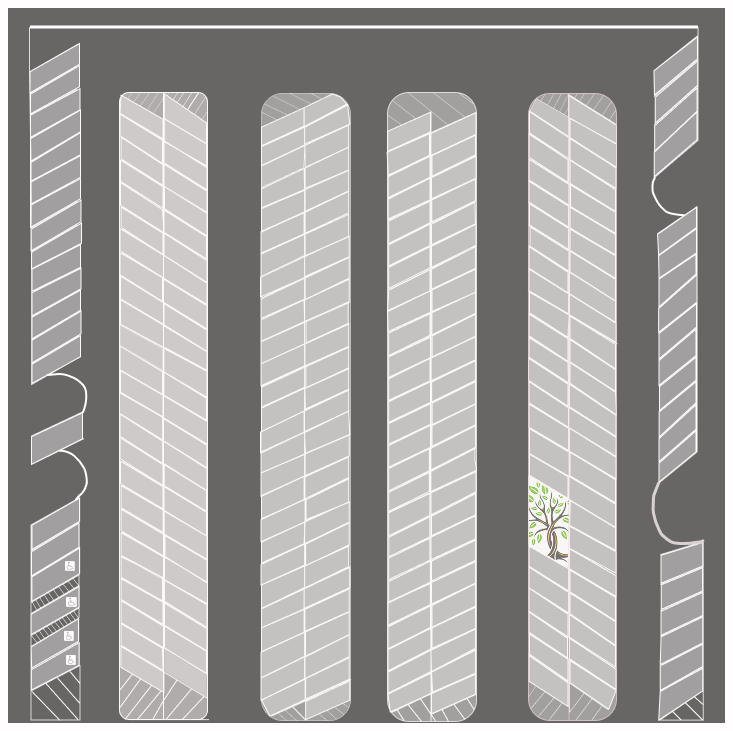
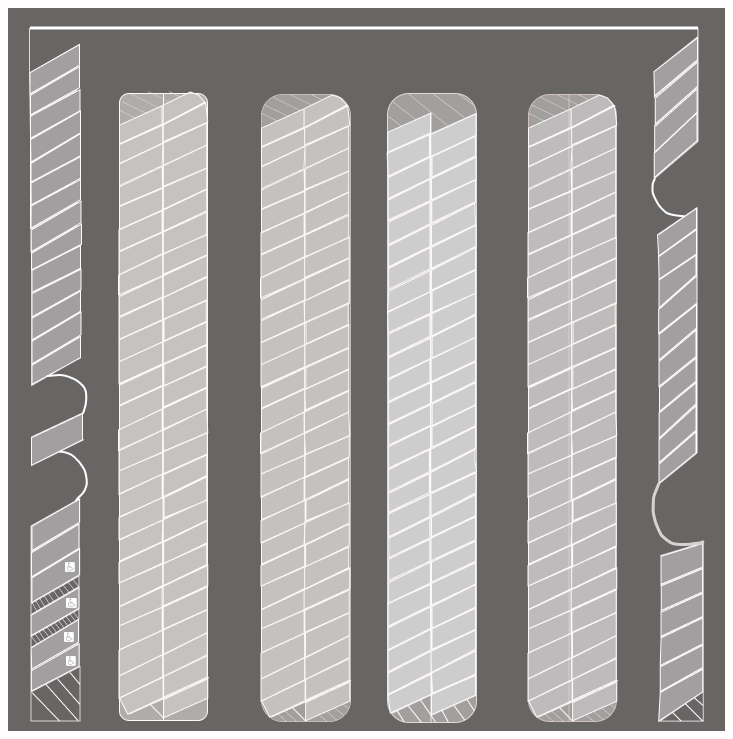
Layout Alignment

diff --git a/frontend/src/components/GoogleMapsParkingLot.jsx b/frontend/src/components/GoogleMapsParkingLot.jsx
@@ -26,8 +26,9 @@ const LEGEND_COLORS = {
   noData: "#F58025",
 };
 
-const FORWARD_SHIFT_PX = 12; // tweak until it lines up with the Figma stalls
-const centerOffset = (w, h) => ({ x: -w / 2 - FORWARD_SHIFT_PX, y: -h / 2 });
+const FORWARD_SHIFT_PX = 10;
+const VERTICAL_SHIFT_PX = 11; // tweak until it lines up with the Figma stalls
+const centerOffset = (w, h) => ({ x: -w / 2 - FORWARD_SHIFT_PX, y: -h / 2 - VERTICAL_SHIFT_PX });
 
 // Pick a size in px for a spot marker based on current map zoom.
 // At zoom 19 the overlay reads at roughly a stall-per-spot scale; above that
